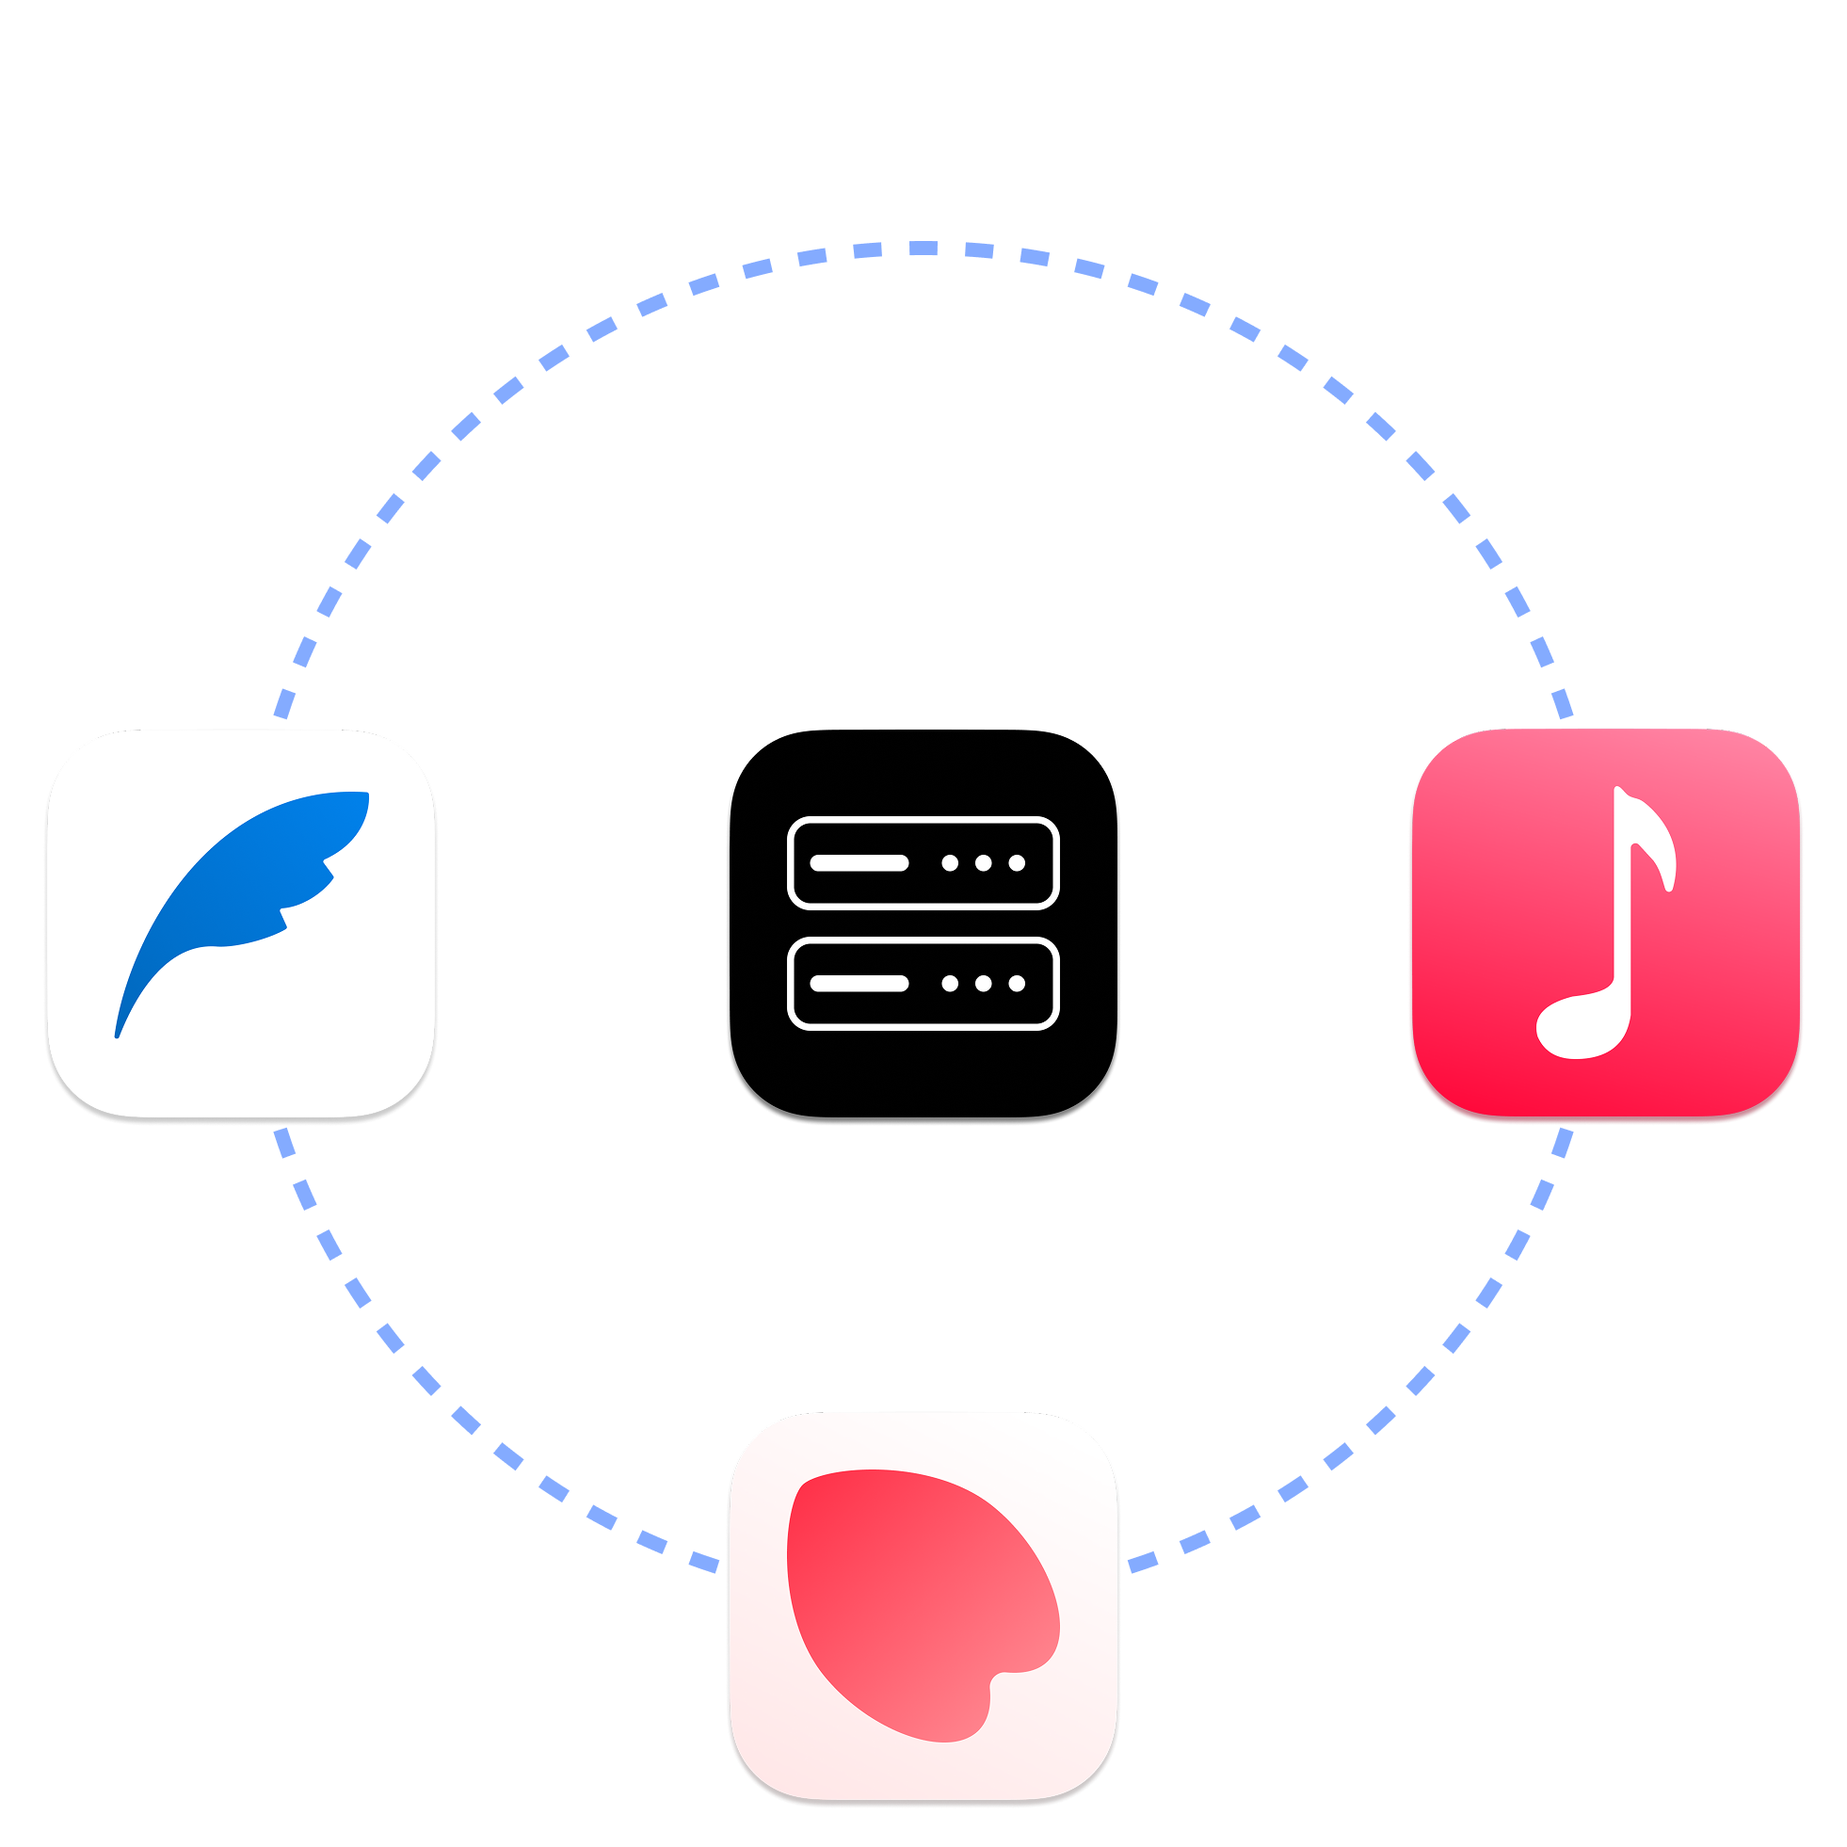
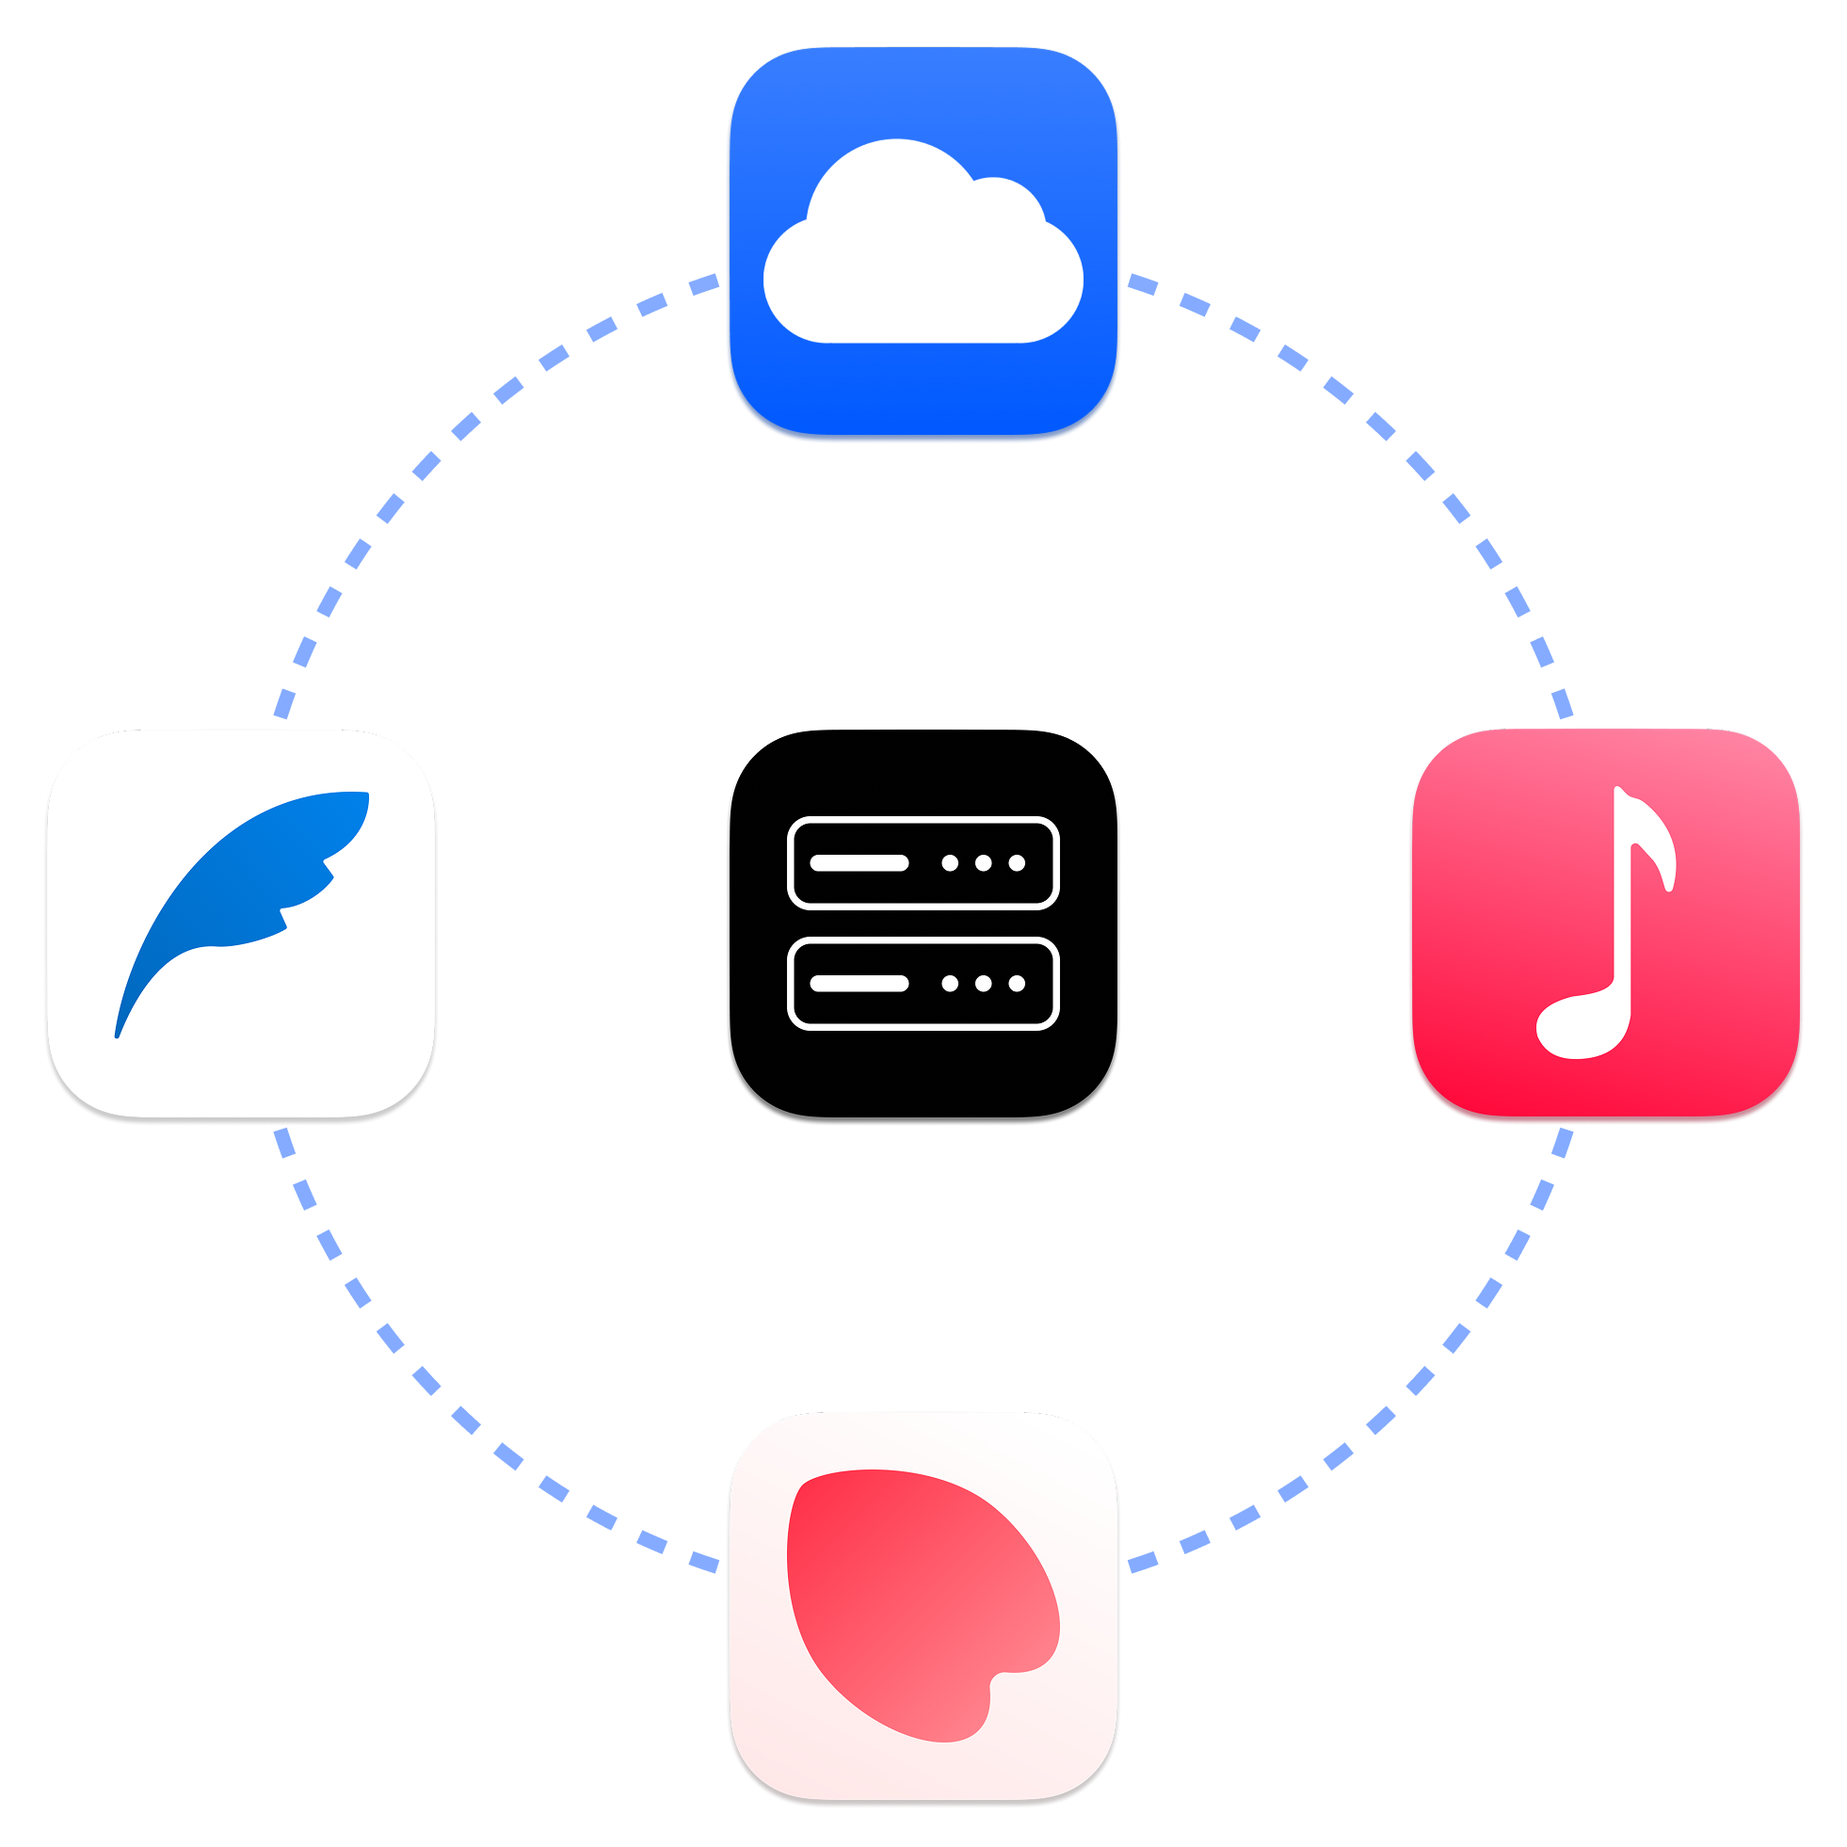
feat: add cloud app page with download links

Changed region(s): [[0.3731, 0.0, 0.6218, 0.2487]]

diff --git a/src/pages/apps/CloudPage.tsx b/src/pages/apps/CloudPage.tsx
@@ -1,79 +1,160 @@
-// import {Section, SectionTexts} from "../Home.tsx";
-// import React, {useState} from "react";
-// import {useTranslation} from "react-i18next";
-// import styled from "styled-components";
-// import {DownloadButtonGroup, SelectOs} from "../../components/AppDownload.tsx";
-//
-// export default function CloudPage({osIndex}) {
-//
-//     const [t] = useTranslation();
-//     const [index, setIndex] = useState(osIndex);
-//
-//     const fragments = [
-//             (
-//                 <DownloadButtonGroup>
-//                     Upcoming
-//                 </DownloadButtonGroup>
-//             ),
-//             (
-//                 <DownloadButtonGroup>
-//                     Upcoming
-//                 </DownloadButtonGroup>
-//             ),
-//             (
-//                 <DownloadButtonGroup>
-//                     Upcoming
-//                 </DownloadButtonGroup>
-//             ),
-//             (
-//                 <DownloadButtonGroup>
-//                     Upcoming
-//                 </DownloadButtonGroup>
-//             ),
-//             (
-//                 <DownloadButtonGroup>
-//                     Upcoming
-//                 </DownloadButtonGroup>
-//             )
-//         ]
-//     ;
-//
-//     return (
-//         <Section>
-//
-//             <SectionTexts>
-//
-//                 <h2>
-//                     {t("cloudAppName")}
-//                 </h2>
-//
-//                 <SelectOs>
-//                     <button onClick={() => setIndex(0)}>
-//                         <i className="fa-brands fa-windows"
-//                            style={{color: index === 0 ? "var(--highlight-color)" : null}}></i>
-//                     </button>
-//                     <button onClick={() => setIndex(1)}>
-//                         <i className="fa-brands fa-apple"
-//                            style={{color: index === 1 ? "var(--highlight-color)" : null}}></i>
-//                     </button>
-//                     <button onClick={() => setIndex(2)}>
-//                         <i className="fa-brands fa-linux"
-//                            style={{color: index === 2 ? "var(--highlight-color)" : null}}></i>
-//                     </button>
-//                     <button onClick={() => setIndex(3)}>
-//                         <i className="fa-brands fa-android"
-//                            style={{color: index === 3 ? "var(--highlight-color)" : null}}></i>
-//                     </button>
-//                     <button onClick={() => setIndex(4)}>
-//                         <i className="fa-brands fa-apple"
-//                            style={{color: index === 4 ? "var(--highlight-color)" : null}}></i>
-//                     </button>
-//                 </SelectOs>
-//
-//                 {fragments[index]}
-//
-//             </SectionTexts>
-//
-//         </Section>
-//     );
-// }
+import {AppPreview} from "../Home.tsx";
+import {useEffect, useRef} from "react";
+import {useTranslation} from "react-i18next";
+
+import {
+    AppPage,
+    AppPageSection,
+    DownloadFieldContainer,
+    LinkButton,
+    SelectField
+} from "../../components/AppDownload.tsx";
+import { useLocation} from "react-router-dom";
+import {SelectButton} from "../../components/SelectButton.tsx";
+import {useStore} from "../../store";
+import {
+    FLATPAK_LINK,
+    HOMEBREW_LINK, CLOUD_APK, CLOUD_APPLE_APP_STORE, CLOUD_AUR,
+    CLOUD_DEB,
+    CLOUD_DEB_ARM, CLOUD_DMG,
+    CLOUD_EXE, CLOUD_PLAY_STORE,
+    CLOUD_RPM, CLOUD_RPM_ARM, CLOUD_SNAP,
+    CLOUD_TAR,
+    CLOUD_TAR_ARM,
+    CLOUD_ZIP, platforms,
+    SCOOP
+} from "../../downloadLinks";
+import {PackageManagerButton, PackageManagers, PackageManagerSection} from "../../components/PackageManager.tsx";
+import {DownloadButton} from "../../components/DownloadButton.tsx";
+
+const windowsBinaryTypes = [
+    CLOUD_EXE,
+    CLOUD_ZIP,
+];
+
+const linuxBinaryTypes = [
+    CLOUD_DEB,
+    CLOUD_RPM,
+    CLOUD_TAR,
+    CLOUD_DEB_ARM,
+    CLOUD_RPM_ARM,
+    CLOUD_TAR_ARM
+];
+
+function SelectPlatformButtonForCloud() {
+    const {selectedPlatform, cloudBinaryTypeWindows, setCloudBinaryTypeWindows, cloudBinaryTypeLinux, setCloudBinaryTypeLinux} = useStore();
+
+    if(selectedPlatform.value === "windows") {
+        return (
+            <SelectButton items={windowsBinaryTypes} selectedItem={cloudBinaryTypeWindows} setSelectedItem={setCloudBinaryTypeWindows}/>
+        );
+    }
+    if(selectedPlatform.value === "linux") {
+        return (
+            <SelectButton items={linuxBinaryTypes} selectedItem={cloudBinaryTypeLinux} setSelectedItem={setCloudBinaryTypeLinux}/>
+        );
+    }
+    else {
+        return null;
+    }
+
+}
+
+export default function CloudPage() {
+
+    const [t] = useTranslation();
+    const location = useLocation();
+
+    useEffect(() => {
+        document.title = "Amphi Cloud";
+    }, [t, location]);
+    const {selectedPlatform, setSelectedPlatform, cloudBinaryTypeWindows, cloudBinaryTypeLinux} = useStore();
+    const preview = selectedPlatform.value === "macos" || selectedPlatform.value === "ios"
+        ? "/images/cloud-preview-apple.png"
+        : "/images/cloud-preview-libre.png";
+    const bottomRef = useRef<HTMLDivElement>(null);
+    const scrollToBottom = () => {
+        bottomRef.current?.scrollIntoView({ behavior: 'smooth' });
+    };
+
+    return (
+        <AppPage>
+            <AppPageSection>
+                <h1>
+                    {t("cloudPageTitle")}
+                </h1>
+                <h2>
+                    {t("cloudPageSubtitle")}
+                </h2>
+                <AppPreview src={preview} alt={"cloudAppPreview"} loading="eager"/>
+
+                <DownloadFieldContainer>
+
+                    <SelectField>
+                        <SelectButton items={platforms} selectedItem={selectedPlatform} setSelectedItem={setSelectedPlatform}/>
+
+                        <SelectPlatformButtonForCloud/>
+
+                    </SelectField>
+
+                    <DownloadButton onClick={() => {
+                        switch (selectedPlatform.value) {
+                            case "windows":
+                                window.open(cloudBinaryTypeWindows.value, "_blank");
+                                break;
+                            case "macos":
+                                window.open(CLOUD_DMG, "_blank");
+                                break;
+                            case "linux":
+                                window.open(cloudBinaryTypeLinux.value, "_blank");
+                                break;
+                            case "android":
+                                window.open(CLOUD_PLAY_STORE, "_blank");
+                                break;
+                            case "ios":
+                                window.open(CLOUD_APPLE_APP_STORE, "_blank");
+                                break;
+                        }
+                    }}/>
+
+                    <PackageManagerButton onClick={() => {
+                        if(selectedPlatform.value === "android") {
+                            window.open(CLOUD_APK, "_blank");
+                        }
+                        else {
+                            scrollToBottom();
+                        }
+                    }}/>
+
+                    <LinkButton onClick={() => {
+                        window.open("https://github.com/amphi2024/cloud/releases", "_blank");
+                    }}>{t("allReleases")}
+                    </LinkButton>
+
+                </DownloadFieldContainer>
+
+            </AppPageSection>
+
+            <AppPageSection ref={bottomRef}>
+                <h1>
+                    {t("downloadOnPackageManager")}
+                </h1>
+                <PackageManagers>
+                    <PackageManagerSection platform={"Windows"} items={[
+                        {label: "Scoop", link: SCOOP},
+                    ]} />
+                    <PackageManagerSection platform={"macOS"} items={[
+                        {label: "Homebrew", link: HOMEBREW_LINK},
+                    ]} />
+                    <PackageManagerSection platform={"Linux"} items={[
+                        {label: "Flatpak", link: FLATPAK_LINK},
+                        {label: "Snap Store", link: CLOUD_SNAP},
+                        {label: "AUR", link: CLOUD_AUR},
+                    ]} />
+                </PackageManagers>
+            </AppPageSection>
+
+        </AppPage>
+    )
+        ;
+}

diff --git a/src/downloadLinks.ts b/src/downloadLinks.ts
@@ -1,6 +1,7 @@
 const NOTES_VERSION = "1.1.1";
 const MUSIC_VERSION = "1.0.0";
 const PHOTOS_VERSION = "1.0.0";
+const CLOUD_VERSION = "1.0.0";
 
 export const platforms = [
     {label: "Windows", value: "windows"},
@@ -171,3 +172,57 @@ export const PHOTOS_APK = `https://github.com/amphi2024/photos/releases/download
 export const PHOTOS_PLAY_STORE = "https://play.google.com/store/apps/details?id=com.amphi.photos";
 
 export const PHOTOS_APPLE_APP_STORE = "https://apps.apple.com/us/app/amphi-photos/id6751439356";
+
+
+
+export const CLOUD_EXE = {
+    label: ".exe",
+    value: `https://github.com/amphi2024/cloud/releases/download/v${CLOUD_VERSION}/Cloud-${CLOUD_VERSION}-Windows-x64.exe`
+};
+
+export const CLOUD_ZIP = {
+    label: ".zip",
+    value: `https://github.com/amphi2024/cloud/releases/download/v${CLOUD_VERSION}/Cloud-${CLOUD_VERSION}-Windows-x64.zip`
+};
+
+export const CLOUD_DMG = `https://github.com/amphi2024/cloud/releases/download/v${CLOUD_VERSION}/Cloud-${CLOUD_VERSION}-macOS.dmg`;
+
+export const CLOUD_TAR = {
+    label: ".tar.gz",
+    value: `https://github.com/amphi2024/cloud/releases/download/v${CLOUD_VERSION}/Cloud-${CLOUD_VERSION}-Linux-x86_64.tar.gz`
+};
+
+export const CLOUD_DEB = {
+    label: ".deb",
+    value: `https://github.com/amphi2024/cloud/releases/download/v${CLOUD_VERSION}/Cloud-${CLOUD_VERSION}-Linux-x86_64.deb`
+};
+
+export const CLOUD_RPM = {
+    label: ".rpm",
+    value: `https://github.com/amphi2024/cloud/releases/download/v${CLOUD_VERSION}/Cloud-${CLOUD_VERSION}-Linux-x86_64.rpm`
+};
+
+export const CLOUD_TAR_ARM = {
+    label: ".tar.gz (ARM64)",
+    value: `https://github.com/amphi2024/cloud/releases/download/v${CLOUD_VERSION}/Cloud-${CLOUD_VERSION}-Linux-arm64.tar.gz`
+};
+
+export const CLOUD_DEB_ARM = {
+    label: ".deb (ARM64)",
+    value: `https://github.com/amphi2024/cloud/releases/download/v${CLOUD_VERSION}/Cloud-${CLOUD_VERSION}-Linux-arm64.deb`
+};
+
+export const CLOUD_RPM_ARM = {
+    label: ".rpm (ARM64)",
+    value: `https://github.com/amphi2024/cloud/releases/download/v${CLOUD_VERSION}/Cloud-${CLOUD_VERSION}-Linux-arm64.rpm`
+};
+
+export const CLOUD_SNAP = "https://snapcraft.io/amphi-cloud";
+
+export const CLOUD_AUR = "https://aur.archlinux.org/packages/amphi-cloud";
+
+export const CLOUD_APK = `https://github.com/amphi2024/cloud/releases/download/v${CLOUD_VERSION}/Cloud-${CLOUD_VERSION}-Android.apk`;
+
+export const CLOUD_PLAY_STORE = "https://play.google.com/store/apps/details?id=com.amphi.cloud";
+
+export const CLOUD_APPLE_APP_STORE = "https://apps.apple.com/us/app/amphi-cloud/id6753095443";

diff --git a/src/store.ts b/src/store.ts
@@ -1,5 +1,14 @@
 import { create } from 'zustand';
-import {MUSIC_DEB, MUSIC_EXE, NOTES_DEB, NOTES_EXE, PHOTOS_DEB, PHOTOS_EXE} from "./downloadLinks";
+import {
+    CLOUD_DEB,
+    CLOUD_EXE,
+    MUSIC_DEB,
+    MUSIC_EXE,
+    NOTES_DEB,
+    NOTES_EXE,
+    PHOTOS_DEB,
+    PHOTOS_EXE
+} from "./downloadLinks";
 
 type Platform = {
     label: string;
@@ -32,6 +41,12 @@ interface AppState {
 
     photosBinaryTypeLinux: BinaryType;
     setPhotosBinaryTypeLinux: (selectedLinuxBinaryType: BinaryType) => void;
+
+    cloudBinaryTypeWindows: BinaryType;
+    setCloudBinaryTypeWindows: (selectedBinaryType: BinaryType) => void;
+
+    cloudBinaryTypeLinux: BinaryType;
+    setCloudBinaryTypeLinux: (selectedLinuxBinaryType: BinaryType) => void;
 }
 
 export const useStore = create<AppState>(set => ({
@@ -49,4 +64,8 @@ export const useStore = create<AppState>(set => ({
     setPhotosBinaryTypeWindows: (selectedBinaryType: BinaryType) => set({ photosBinaryTypeWindows: selectedBinaryType }),
     photosBinaryTypeLinux: PHOTOS_DEB,
     setPhotosBinaryTypeLinux: (selectedLinuxBinaryType: BinaryType) => set({ photosBinaryTypeLinux: selectedLinuxBinaryType }),
+    cloudBinaryTypeWindows: CLOUD_EXE,
+    setCloudBinaryTypeWindows: (selectedBinaryType: BinaryType) => set({cloudBinaryTypeWindows: selectedBinaryType}),
+    cloudBinaryTypeLinux: CLOUD_DEB,
+    setCloudBinaryTypeLinux: (selectedLinuxBinaryType: BinaryType) => set({ cloudBinaryTypeLinux: selectedLinuxBinaryType }),
 }));

diff --git a/src/App.tsx b/src/App.tsx
@@ -17,6 +17,7 @@ import {useStore} from "./store";
 import MusicPage from "./pages/apps/MusicPage.tsx";
 import PhotosPage from "./pages/apps/PhotosPage.tsx";
 import {ImproveTranslationsButton, ReturnButton} from "./components/PageFooterControls.tsx";
+import CloudPage from "./pages/apps/CloudPage.tsx";
 
 const Container = styled.div`
     
@@ -111,6 +112,7 @@ function App() {
                                 <Route path="/notes" element={<NotesPage/>}/>
                                 <Route path="/music" element={<MusicPage/>}/>
                                 <Route path="/photos" element={<PhotosPage/>}/>
+                                <Route path="/cloud" element={<CloudPage/>}/>
                                 <Route path="/server" element={<ServerPage/>}/>
                                 <Route path="/privacy" element={<Privacy/>}/>
                                 <Route path="/terms" element={<Terms/>}/>

diff --git a/src/pages/Home.tsx b/src/pages/Home.tsx
@@ -290,6 +290,9 @@ function Home() {
                     <Link to={"/photos"}>
                         <AppButton src={"/images/photos-logo.png"} alt={"photos"}/>
                     </Link>
+                    <Link to={"/cloud"}>
+                        <AppButton src={"/images/cloud-logo.png"} alt={"cloud"}/>
+                    </Link>
                 </div>
 
             </HomePageSection>
